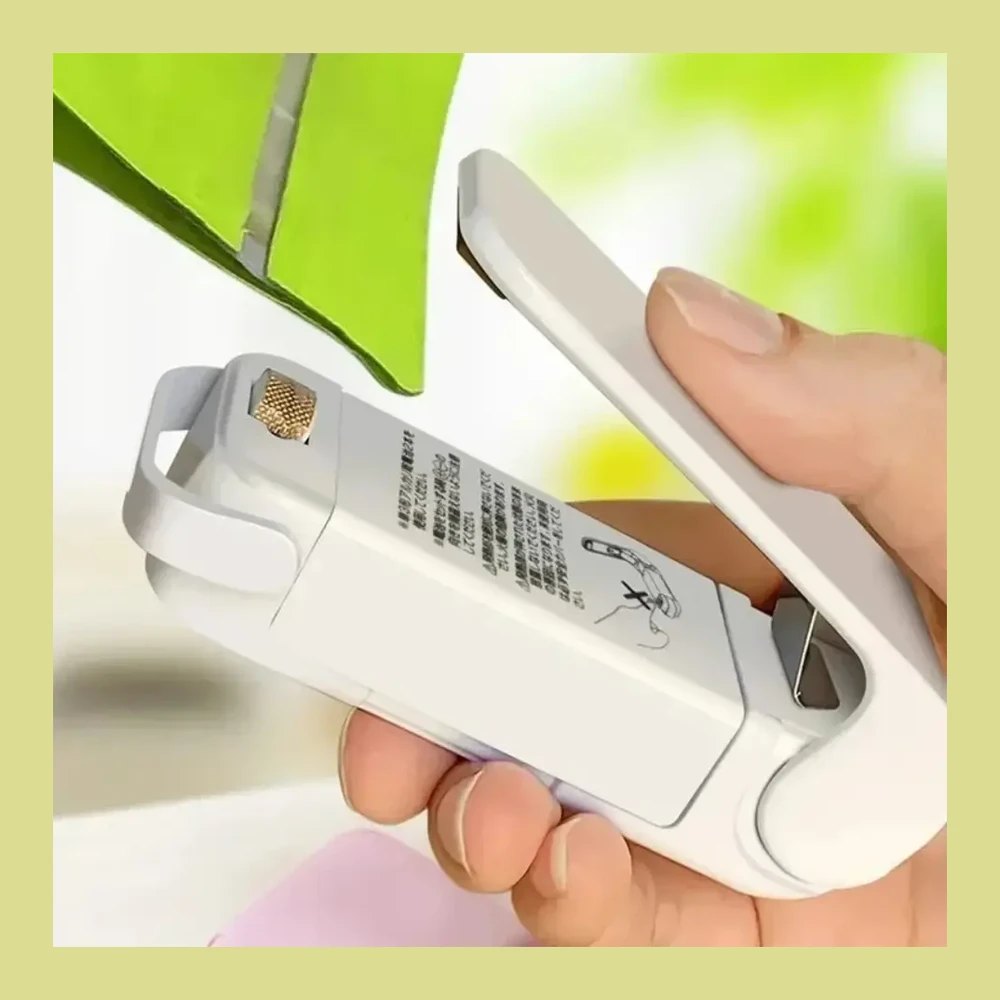
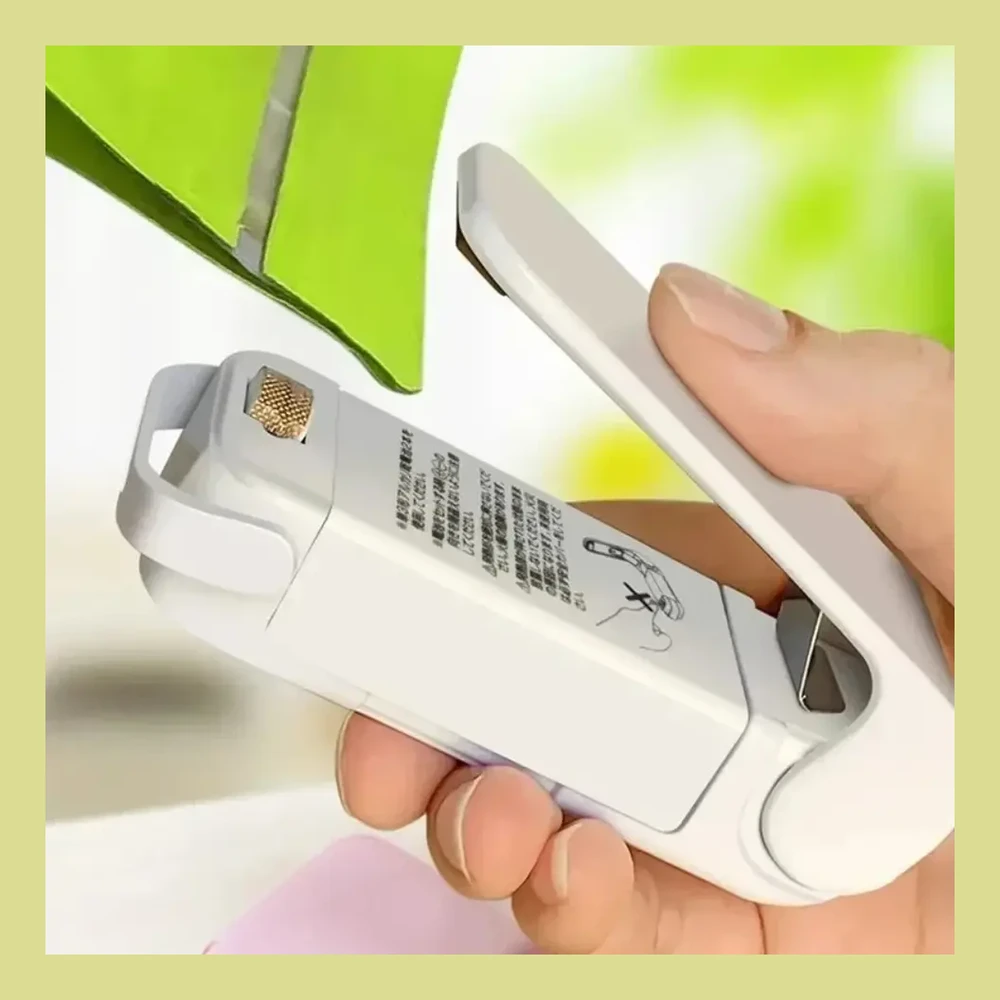
Show the full photo instead of cropping in on the product

diff --git a/index.html b/index.html
@@ -8,7 +8,7 @@
 <link rel="preconnect" href="https://fonts.googleapis.com">
 <link rel="preconnect" href="https://fonts.gstatic.com" crossorigin>
 <link href="https://fonts.googleapis.com/css2?family=Inter:wght@400;500;600;700&display=swap" rel="stylesheet">
-<link rel="stylesheet" href="style.css?v=5">
+<link rel="stylesheet" href="style.css?v=6">
 </head>
 <body>
 
@@ -27,7 +27,7 @@
 
 <section class="hero">
   <div class="wrap hero-grid">
-    <div class="hero-img"><img src="bilder/mini-1.webp?v=5" alt="FreshSeal Mini Sealer in white, with its USB-C cable"></div>
+    <div class="hero-img"><img src="bilder/mini-1.webp?v=6" alt="FreshSeal Mini Sealer in white, with its USB-C cable"></div>
     <div class="hero-text">
       <p class="eyebrow">The flagship</p>
       <h1>Stop throwing away half a bag</h1>
@@ -48,19 +48,19 @@
     <p class="range-note">Three sealers, one job. Pick the one that fits your kitchen.</p>
     <div class="cards">
       <a class="card" href="mini-sealer.html">
-        <div class="card-img"><img src="bilder/mini-1.webp?v=5" alt="FreshSeal Mini Sealer in white, with its USB-C cable"></div>
+        <div class="card-img"><img src="bilder/mini-1.webp?v=6" alt="FreshSeal Mini Sealer in white, with its USB-C cable"></div>
         <h3>Mini Sealer</h3>
         <p>Rechargeable, with a cutter and a magnet. The flagship.</p>
         <div class="card-price">$24.99</div>
       </a>
       <a class="card" href="classic.html">
-        <div class="card-img"><img src="bilder/classic-1.webp?v=5" alt="FreshSeal Classic in white"></div>
+        <div class="card-img"><img src="bilder/classic-1.webp?v=6" alt="FreshSeal Classic in white"></div>
         <h3>Classic</h3>
         <p>The plain one. Over 100,000 sold.</p>
         <div class="card-price">$24.99</div>
       </a>
       <a class="card" href="duck.html">
-        <div class="card-img"><img src="bilder/duck-1.webp?v=5" alt="FreshSeal Duck, a duck-shaped bag sealer"></div>
+        <div class="card-img"><img src="bilder/duck-1.webp?v=6" alt="FreshSeal Duck, a duck-shaped bag sealer"></div>
         <h3>Duck</h3>
         <p>Same job, except it sits on your fridge and looks you in the eye.</p>
         <div class="card-price">$24.99</div>

diff --git a/classic.html b/classic.html
@@ -8,7 +8,7 @@
 <link rel="preconnect" href="https://fonts.googleapis.com">
 <link rel="preconnect" href="https://fonts.gstatic.com" crossorigin>
 <link href="https://fonts.googleapis.com/css2?family=Inter:wght@400;500;600;700&display=swap" rel="stylesheet">
-<link rel="stylesheet" href="style.css?v=5">
+<link rel="stylesheet" href="style.css?v=6">
 </head>
 <body>
 
@@ -34,13 +34,13 @@
 
     <div>
       <div class="gallery-main">
-        <img id="mainImage" src="bilder/classic-1.webp?v=5" alt="FreshSeal Classic in white">
+        <img id="mainImage" src="bilder/classic-1.webp?v=6" alt="FreshSeal Classic in white">
       </div>
       <div class="thumbs" id="thumbs">
-        <button aria-current="true"><img src="bilder/classic-1.webp?v=5" alt="FreshSeal Classic in white"></button>
-        <button><img src="bilder/classic-2.webp?v=5" alt="Sealing a snack bag by hand"></button>
-        <button><img src="bilder/classic-3.webp?v=5" alt="Sealing a freezer bag of vegetables"></button>
-        <button><img src="bilder/classic-4.webp?v=5" alt="The Classic slipped into a coat pocket"></button>
+        <button aria-current="true"><img src="bilder/classic-1.webp?v=6" alt="FreshSeal Classic in white"></button>
+        <button><img src="bilder/classic-2.webp?v=6" alt="Sealing a snack bag by hand"></button>
+        <button><img src="bilder/classic-3.webp?v=6" alt="Sealing a freezer bag of vegetables"></button>
+        <button><img src="bilder/classic-4.webp?v=6" alt="The Classic slipped into a coat pocket"></button>
       </div>
     </div>
 

diff --git a/mini-sealer.html b/mini-sealer.html
@@ -8,7 +8,7 @@
 <link rel="preconnect" href="https://fonts.googleapis.com">
 <link rel="preconnect" href="https://fonts.gstatic.com" crossorigin>
 <link href="https://fonts.googleapis.com/css2?family=Inter:wght@400;500;600;700&display=swap" rel="stylesheet">
-<link rel="stylesheet" href="style.css?v=5">
+<link rel="stylesheet" href="style.css?v=6">
 </head>
 <body>
 
@@ -34,12 +34,12 @@
 
     <div>
       <div class="gallery-main">
-        <img id="mainImage" src="bilder/mini-1.webp?v=5" alt="FreshSeal Mini Sealer in white, with its USB-C cable">
+        <img id="mainImage" src="bilder/mini-1.webp?v=6" alt="FreshSeal Mini Sealer in white, with its USB-C cable">
       </div>
       <div class="thumbs" id="thumbs">
-        <button aria-current="true"><img src="bilder/mini-1.webp?v=5" alt="FreshSeal Mini Sealer in white, with its USB-C cable"></button>
-        <button><img src="bilder/mini-3.webp?v=5" alt="The Mini Sealer held on a fridge door by its magnet"></button>
-        <button><img src="bilder/mini-4.webp?v=5" alt="Cutter, sealer, magnetic base and charging port"></button>
+        <button aria-current="true"><img src="bilder/mini-1.webp?v=6" alt="FreshSeal Mini Sealer in white, with its USB-C cable"></button>
+        <button><img src="bilder/mini-3.webp?v=6" alt="The Mini Sealer held on a fridge door by its magnet"></button>
+        <button><img src="bilder/mini-4.webp?v=6" alt="Cutter, sealer, magnetic base and charging port"></button>
       </div>
     </div>
 

diff --git a/duck.html b/duck.html
@@ -8,7 +8,7 @@
 <link rel="preconnect" href="https://fonts.googleapis.com">
 <link rel="preconnect" href="https://fonts.gstatic.com" crossorigin>
 <link href="https://fonts.googleapis.com/css2?family=Inter:wght@400;500;600;700&display=swap" rel="stylesheet">
-<link rel="stylesheet" href="style.css?v=5">
+<link rel="stylesheet" href="style.css?v=6">
 </head>
 <body>
 
@@ -34,12 +34,12 @@
 
     <div>
       <div class="gallery-main">
-        <img id="mainImage" src="bilder/duck-1.webp?v=5" alt="FreshSeal Duck, a duck-shaped bag sealer">
+        <img id="mainImage" src="bilder/duck-1.webp?v=6" alt="FreshSeal Duck, a duck-shaped bag sealer">
       </div>
       <div class="thumbs" id="thumbs">
-        <button aria-current="true"><img src="bilder/duck-1.webp?v=5" alt="FreshSeal Duck, a duck-shaped bag sealer"></button>
-        <button><img src="bilder/duck-2.webp?v=5" alt="The Duck resting on a kitchen table"></button>
-        <button><img src="bilder/duck-3.webp?v=5" alt="Sealing a snack bag with the Duck"></button>
+        <button aria-current="true"><img src="bilder/duck-1.webp?v=6" alt="FreshSeal Duck, a duck-shaped bag sealer"></button>
+        <button><img src="bilder/duck-2.webp?v=6" alt="The Duck resting on a kitchen table"></button>
+        <button><img src="bilder/duck-3.webp?v=6" alt="Sealing a snack bag with the Duck"></button>
       </div>
     </div>
 

diff --git a/bilder.py b/bilder.py
@@ -13,22 +13,18 @@ def trim(im, toleranse=14):
     boks = diff.getbbox()
     return im.crop(boks) if boks else im
 
-def lag(src, dst, kutt=None, storleik=1000, luft=0.06):
+def lag(src, dst, kutt=None, storleik=1000, luft=0.05):
     im = Image.open(src).convert("RGB")
     if kutt:                                    # (topp, botn) i prosent — fjernar tekstbanner
         t, b = kutt
         im = im.crop((0, int(im.height*t), im.width, int(im.height*(1-b))))
     im = trim(im)
     bg = bakgrunnsfarge(im)
-    # kvadrat: beskjer den lange sida rundt midten, i staden for å leggje til stolpar
-    s = min(im.size)
-    x = (im.width - s)//2
-    y = (im.height - s)//2
-    im = im.crop((x, y, x+s, y+s))
-    # litt luft rundt, i same farge som bakgrunnen — ingen harde kvite stolpar
-    ramme = int(s*luft)
-    lerret = Image.new("RGB", (s+2*ramme, s+2*ramme), bg)
-    lerret.paste(im, (ramme, ramme))
+    # heile biletet blir med — vi fyller ut til kvadrat med bakgrunnsfargen frå
+    # biletet sjølv, så det ikkje blir harde kvite stolpar og ikkje zoomar inn
+    s = int(max(im.size) * (1 + 2*luft))
+    lerret = Image.new("RGB", (s, s), bg)
+    lerret.paste(im, ((s - im.width)//2, (s - im.height)//2))
     lerret.resize((storleik, storleik), Image.LANCZOS).save(dst, "WEBP", quality=90)
 
 JOBBAR = [

diff --git a/bygg.py b/bygg.py
@@ -6,7 +6,7 @@ Alt innhald ligg i PRODUKT under. Endrar du pris eller tekst, endrar du her
 og køyrer skriptet på nytt — då blir alle sidene oppdaterte likt.
 """
 
-V = "5"  # versjonsnummer på css/bilete, auk denne når du endrar bilete
+V = "6"  # versjonsnummer på css/bilete, auk denne når du endrar bilete
 
 PRODUKT = [
     {
